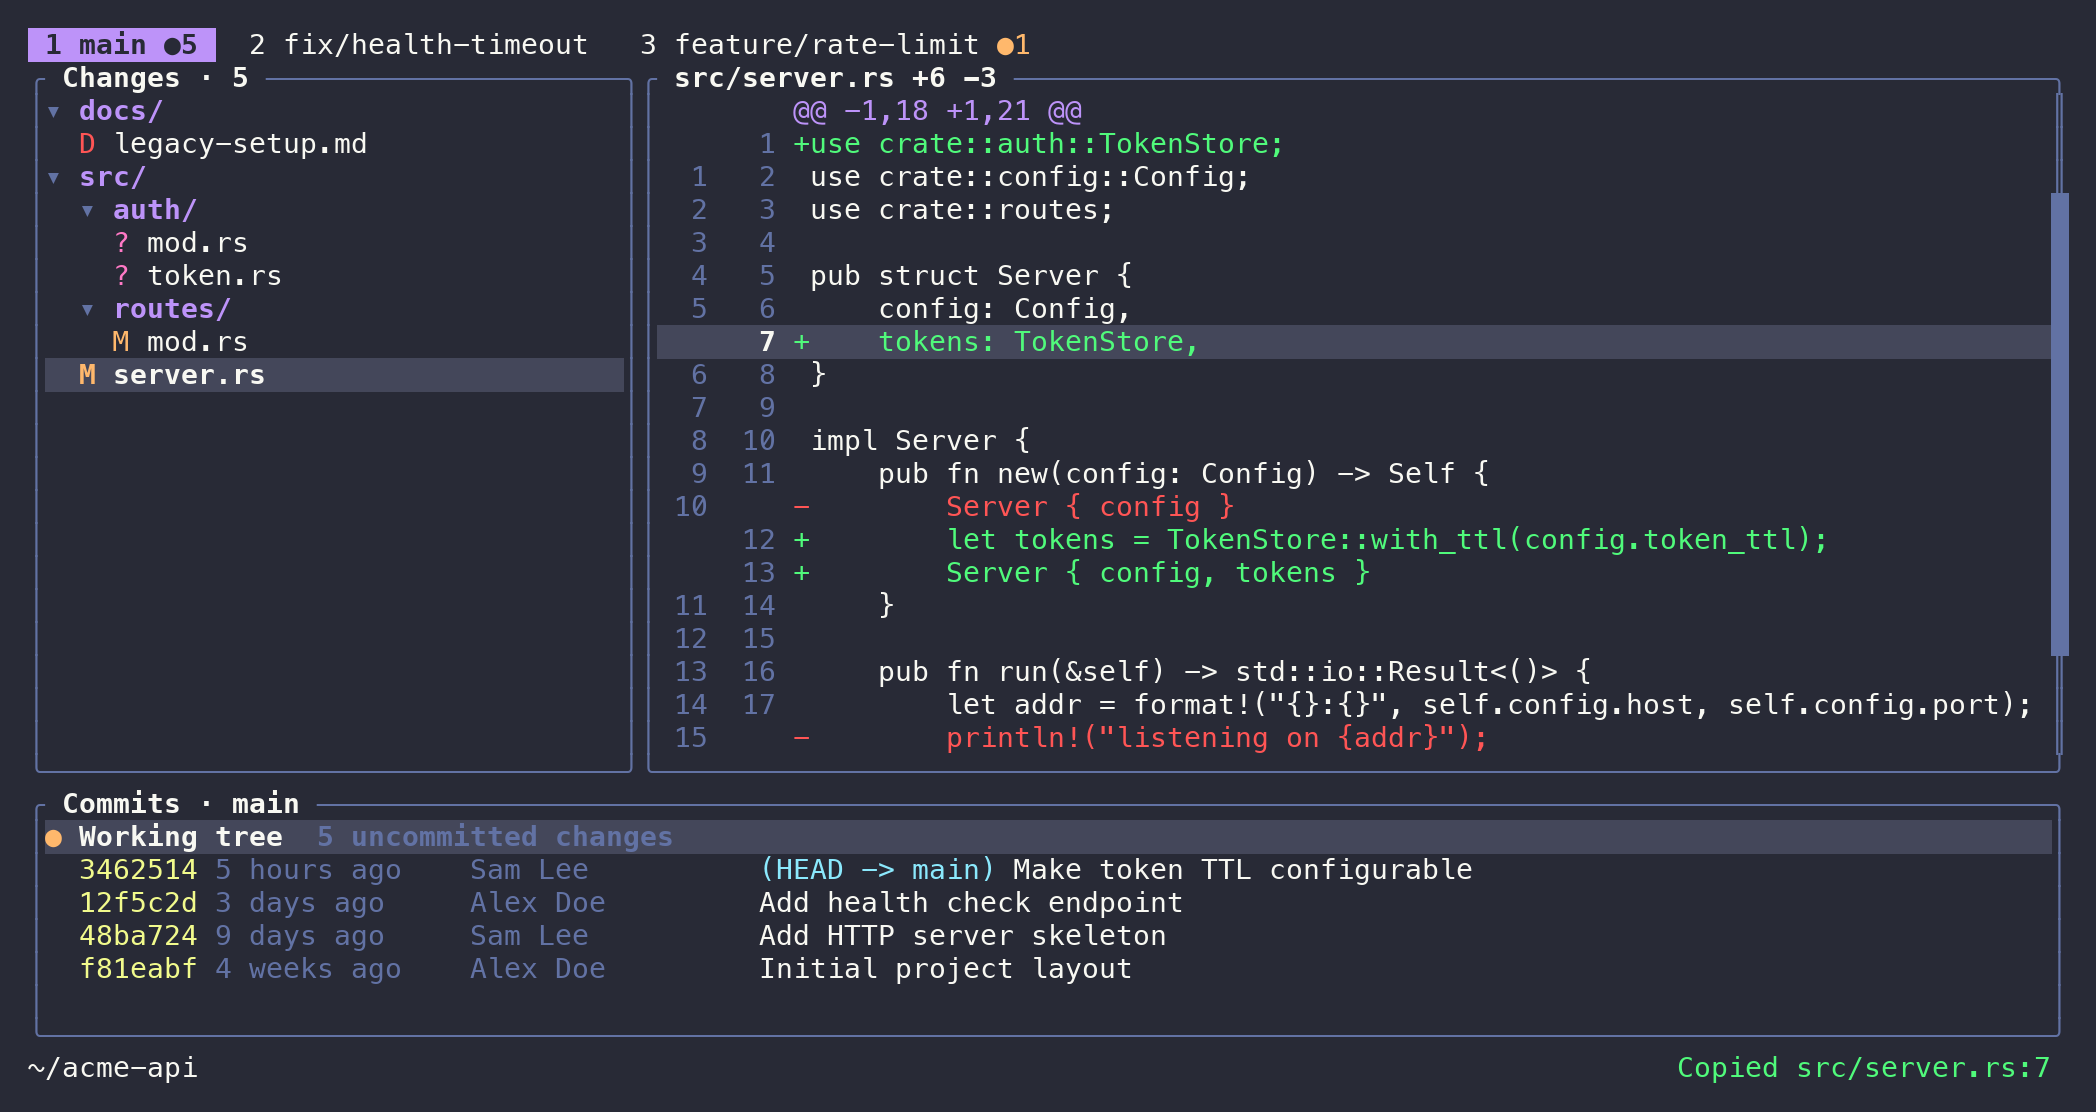
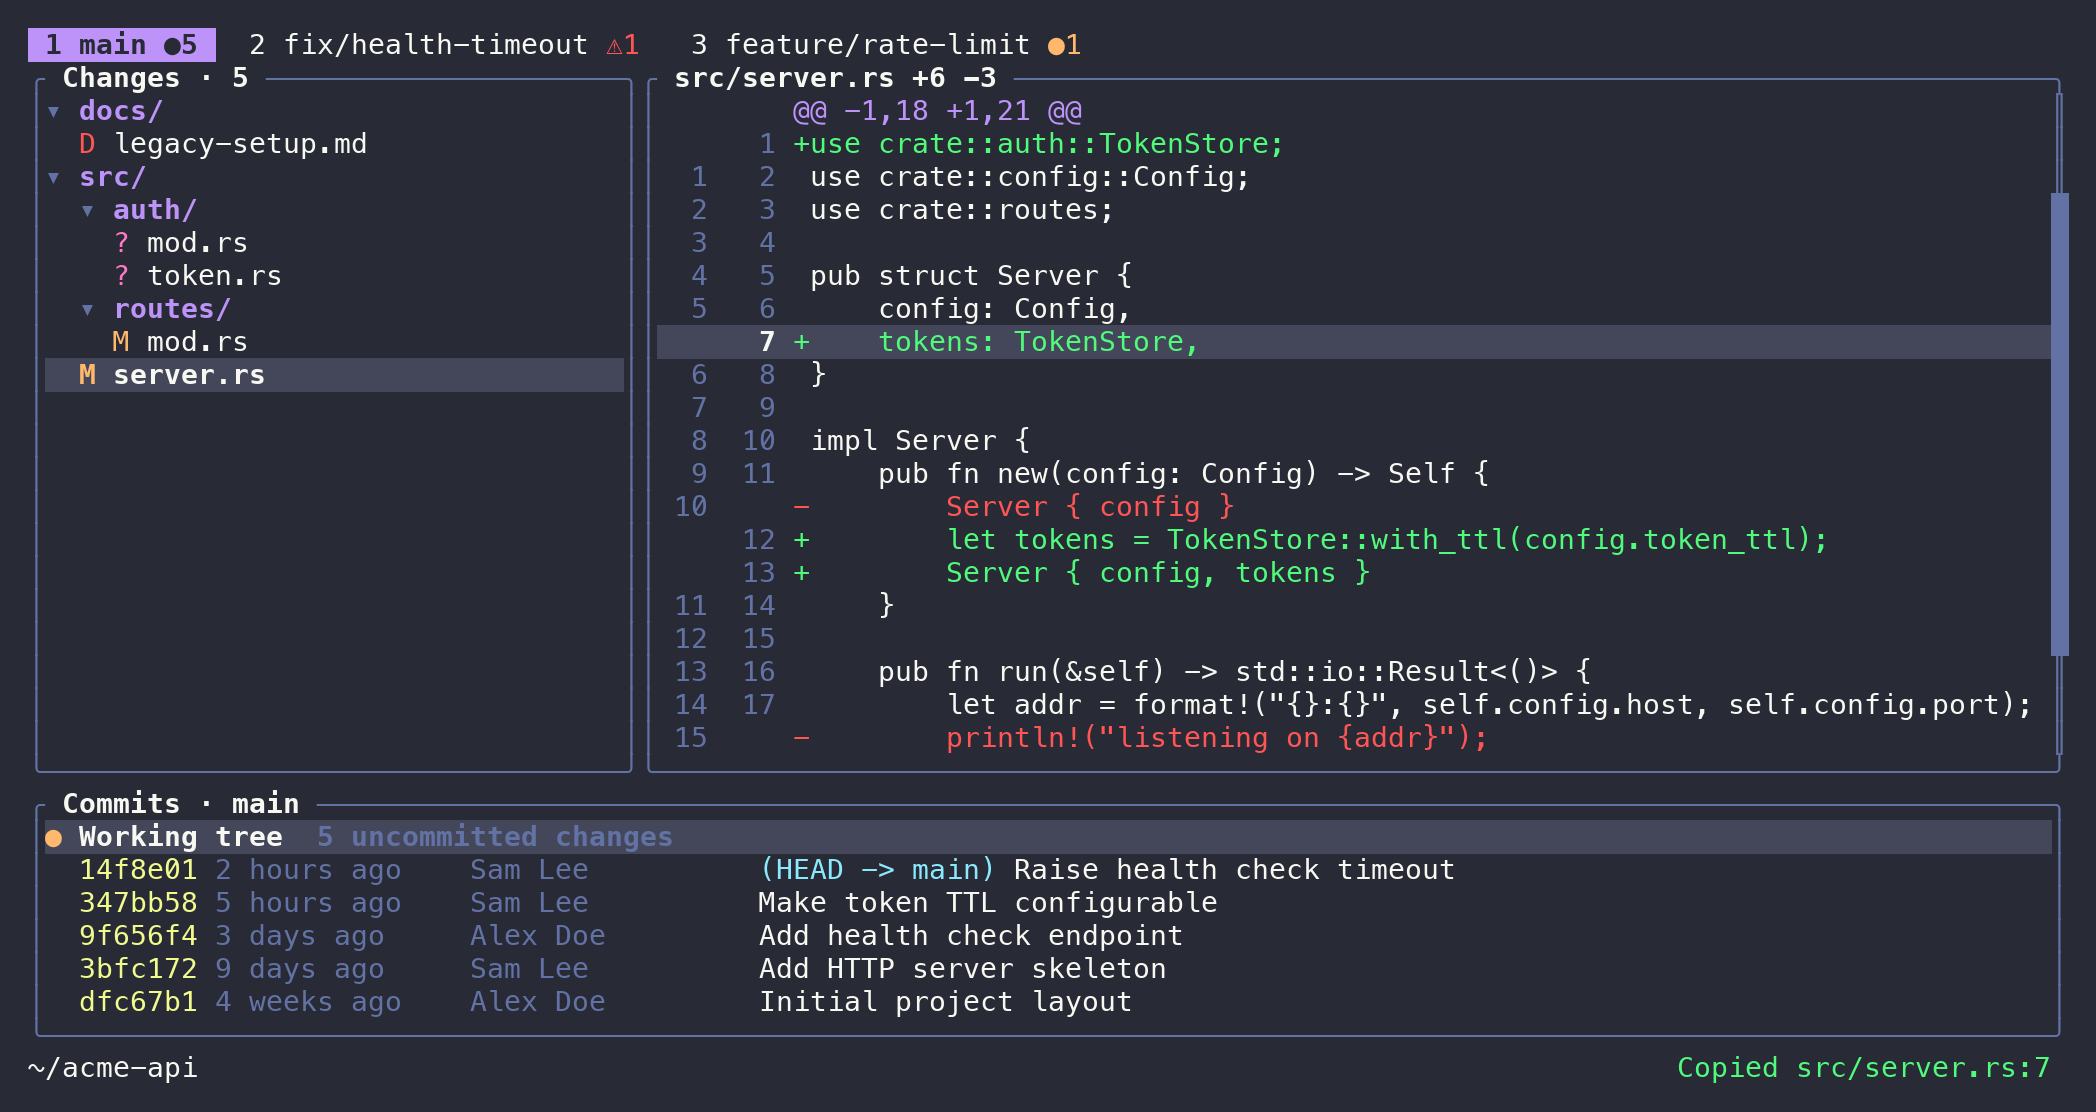
feat: warn when a worktree conflicts with the default branch
Dry-run a merge with `git merge-tree --write-tree` against the default
branch (origin/HEAD, else main/master) in the background. Conflicting
worktrees get a ⚠N tab badge, and the status line names the base branch
and file count. The path is shortened from the left so the warning stays
visible. Requires git 2.38+; silently skipped otherwise.

diff --git a/src/git.rs b/src/git.rs
@@ -272,14 +272,47 @@ pub fn default_branch(dir: &Path) -> Option<String> {
         .map(String::from)
 }
 
-/// Ref to exclude from a worktree's log so only its own commits remain. `None` (full history) when
-/// HEAD is detached, no default branch exists, or the worktree is on the default branch itself.
-fn log_base(wt: &Path) -> Option<String> {
+/// Default branch to compare a worktree against. `None` when HEAD is detached, no default branch
+/// exists, or the worktree is on the default branch itself.
+pub fn base_for(wt: &Path) -> Option<String> {
     let base = default_branch(wt)?;
     let out = run_ok(wt, &["symbolic-ref", "-q", "--short", "HEAD"]).ok()?;
     let current = String::from_utf8_lossy(&out).trim().to_string();
     let short_base = base.rsplit('/').next().unwrap_or(&base);
     (current != base && current != short_base).then_some(base)
+}
+
+/// Files that would conflict when merging the worktree's HEAD into its base branch.
+#[derive(Debug, Clone, PartialEq, Eq)]
+pub struct Conflict {
+    pub base: String,
+    pub files: Vec<String>,
+}
+
+/// Dry-run merge via `git merge-tree` (git >= 2.38; never touches the index or working tree).
+/// `None` when clean, there is no base, or git cannot tell (e.g. too old).
+pub fn conflicts_with_base(wt: &Path) -> Option<Conflict> {
+    let base = base_for(wt)?;
+    let out = run(
+        wt,
+        &["merge-tree", "--write-tree", "--name-only", &base, "HEAD"],
+        &[0, 1],
+    )
+    .ok()?;
+    let files = parse_merge_tree(&String::from_utf8_lossy(&out));
+    (!files.is_empty()).then_some(Conflict { base, files })
+}
+
+/// Parses `merge-tree --write-tree --name-only` output: tree OID, conflicted paths, blank line, messages.
+fn parse_merge_tree(out: &str) -> Vec<String> {
+    let mut files: Vec<String> = out
+        .lines()
+        .skip(1)
+        .take_while(|l| !l.is_empty())
+        .map(String::from)
+        .collect();
+    files.dedup();
+    files
 }
 
 pub fn log(wt: &Path, skip: usize, count: usize) -> Result<Vec<Commit>> {
@@ -294,7 +327,7 @@ pub fn log(wt: &Path, skip: usize, count: usize) -> Result<Vec<Commit>> {
         &skip,
         "--format=%H%x1f%h%x1f%an%x1f%ar%x1f%D%x1f%P%x1f%s%x1e",
     ];
-    let range = log_base(wt).map(|b| format!("{b}..HEAD"));
+    let range = base_for(wt).map(|b| format!("{b}..HEAD"));
     if let Some(r) = &range {
         args.push(r);
     }
@@ -483,6 +516,47 @@ mod tests {
             .status
             .success();
         assert!(ok, "git {args:?} failed");
+    }
+
+    #[test]
+    fn parses_merge_tree() {
+        assert!(parse_merge_tree("abc123\n").is_empty());
+        assert_eq!(
+            parse_merge_tree(
+                "abc123\na.txt\nb/c.txt\nb/c.txt\n\nAuto-merging a.txt\nCONFLICT (content)\n"
+            ),
+            vec!["a.txt", "b/c.txt"]
+        );
+    }
+
+    #[test]
+    fn detects_conflicts_with_default_branch() {
+        let tmp = tempfile::tempdir().unwrap();
+        let main = tmp.path().join("main");
+        std::fs::create_dir(&main).unwrap();
+        sh(&main, &["init", "-q", "-b", "master"]);
+        std::fs::write(main.join("a.txt"), "one\n").unwrap();
+        std::fs::write(main.join("b.txt"), "b\n").unwrap();
+        sh(&main, &["add", "."]);
+        sh(&main, &["commit", "-q", "-m", "first"]);
+        let wt = tmp.path().join("wt");
+        sh(
+            &main,
+            &["worktree", "add", "-q", "-b", "feat", wt.to_str().unwrap()],
+        );
+
+        // On the default branch itself: nothing to compare.
+        assert_eq!(conflicts_with_base(&main), None);
+
+        std::fs::write(wt.join("a.txt"), "feat\n").unwrap();
+        sh(&wt, &["commit", "-q", "-am", "feat change"]);
+        assert_eq!(conflicts_with_base(&wt), None);
+
+        std::fs::write(main.join("a.txt"), "master\n").unwrap();
+        sh(&main, &["commit", "-q", "-am", "master change"]);
+        let c = conflicts_with_base(&wt).unwrap();
+        assert_eq!(c.base, "master");
+        assert_eq!(c.files, vec!["a.txt"]);
     }
 
     #[test]

diff --git a/src/ui.rs b/src/ui.rs
@@ -122,6 +122,16 @@ fn clamp_offset(offset: &mut usize, len: usize, height: usize) {
     *offset = (*offset).min(len.saturating_sub(height));
 }
 
+/// Keeps the end of `s` (the interesting part of a path), prefixing `…` when it has to cut.
+fn shorten_left(s: &str, max: usize) -> String {
+    let n = s.chars().count();
+    if n <= max {
+        return s.to_string();
+    }
+    let tail: String = s.chars().skip(n - max.saturating_sub(1)).collect();
+    format!("…{tail}")
+}
+
 fn home_relative(p: &std::path::Path) -> String {
     if let Some(home) = std::env::var_os("HOME")
         && let Ok(rel) = p.strip_prefix(&home)
@@ -147,6 +157,13 @@ fn draw_tabs(f: &mut Frame, app: &mut App, area: Rect) {
             };
             let badge = if !w.info.exists() {
                 Some(("✗".to_string(), theme.error))
+            } else if let Some(c) = &w.conflict {
+                let changes = if w.changes.is_empty() {
+                    String::new()
+                } else {
+                    format!(" ●{}", w.changes.len())
+                };
+                Some((format!("⚠{}{changes}", c.files.len()), theme.error))
             } else if !w.changes.is_empty() {
                 Some((format!("●{}", w.changes.len()), theme.badge))
             } else {
@@ -445,18 +462,24 @@ fn draw_commits(f: &mut Frame, app: &mut App, area: Rect) {
 
 fn draw_status(f: &mut Frame, app: &App, area: Rect) {
     let theme = &app.theme;
-    let mut left = vec![];
+    // Everything after the path; the path is shortened first so the warning stays visible.
+    let mut tail = vec![];
     if let Some(st) = app.active() {
-        left.push(Span::styled(home_relative(&st.info.path), theme.base));
+        if let Some(c) = &st.conflict {
+            tail.push(Span::styled(
+                format!("  ⚠ conflicts with {} ({} files)", c.base, c.files.len()),
+                theme.error,
+            ));
+        }
         if let Some(c) = &st.commit {
-            left.push(Span::styled(
+            tail.push(Span::styled(
                 format!("  @ {} {}", c.short, c.subject),
                 theme.sha,
             ));
         }
     }
     if let Some(p) = &app.pending_keys {
-        left.push(Span::styled(format!("  {p}…"), theme.badge));
+        tail.push(Span::styled(format!("  {p}…"), theme.badge));
     }
     let right = match app.visible_toast() {
         Some((msg, true)) => Span::styled(format!("{msg} "), theme.error),
@@ -465,6 +488,16 @@ fn draw_status(f: &mut Frame, app: &App, area: Rect) {
     };
     let right_w = right.width() as u16;
     let [l, r] = Layout::horizontal([Constraint::Min(0), Constraint::Length(right_w)]).areas(area);
+    let mut left = vec![];
+    if let Some(st) = app.active() {
+        let tail_w: usize = tail.iter().map(|s| s.width()).sum();
+        let budget = (l.width as usize).saturating_sub(tail_w).max(12);
+        left.push(Span::styled(
+            shorten_left(&home_relative(&st.info.path), budget),
+            theme.base,
+        ));
+    }
+    left.extend(tail);
     f.render_widget(Line::from(fit_spans(left, l.width as usize)), l);
     f.render_widget(Line::from(right), r);
 }
@@ -559,6 +592,12 @@ fn draw_help(f: &mut Frame, app: &mut App, area: Rect) {
 #[cfg(test)]
 mod tests {
     use super::*;
+
+    #[test]
+    fn shortens_from_left() {
+        assert_eq!(shorten_left("abc", 5), "abc");
+        assert_eq!(shorten_left("~/a/b/wt-conflicting", 8), "…licting");
+    }
 
     #[test]
     fn fits_and_pads() {

diff --git a/src/worker.rs b/src/worker.rs
@@ -2,7 +2,7 @@
 //! Queued jobs are coalesced: repeated refreshes of the same thing collapse into one.
 
 use crate::app::AppEvent;
-use crate::git::{self, Commit, FileChange, Worktree};
+use crate::git::{self, Commit, Conflict, FileChange, Worktree};
 use anyhow::Result;
 use std::path::PathBuf;
 use std::sync::mpsc::{self, Receiver, Sender};
@@ -18,6 +18,9 @@ pub enum Job {
         wt: PathBuf,
         skip: usize,
         count: usize,
+    },
+    Conflicts {
+        wt: PathBuf,
     },
     CommitFiles {
         wt: PathBuf,
@@ -37,6 +40,7 @@ enum JobKey {
     Worktrees,
     Status(PathBuf),
     Log(PathBuf, usize),
+    Conflicts(PathBuf),
     CommitFiles,
     Diff,
 }
@@ -47,6 +51,7 @@ impl Job {
             Job::Worktrees => JobKey::Worktrees,
             Job::Status { wt } => JobKey::Status(wt.clone()),
             Job::Log { wt, skip, .. } => JobKey::Log(wt.clone(), *skip),
+            Job::Conflicts { wt } => JobKey::Conflicts(wt.clone()),
             // Only the latest file list / diff request matters.
             Job::CommitFiles { .. } => JobKey::CommitFiles,
             Job::Diff { .. } => JobKey::Diff,
@@ -65,6 +70,10 @@ pub enum GitResult {
         skip: usize,
         count: usize,
         res: Result<Vec<Commit>>,
+    },
+    Conflicts {
+        wt: PathBuf,
+        conflict: Option<Conflict>,
     },
     CommitFiles {
         wt: PathBuf,
@@ -125,6 +134,10 @@ fn execute(repo_dir: &std::path::Path, job: Job) -> GitResult {
                 res,
             }
         }
+        Job::Conflicts { wt } => {
+            let conflict = git::conflicts_with_base(&wt);
+            GitResult::Conflicts { wt, conflict }
+        }
         Job::CommitFiles { wt, id, commit } => {
             let res = git::commit_files(&wt, &commit);
             GitResult::CommitFiles { wt, id, res }
@@ -157,11 +170,14 @@ mod tests {
             Job::Status { wt: b.clone() },
             Job::Worktrees,
             Job::Status { wt: a.clone() },
+            Job::Conflicts { wt: a.clone() },
+            Job::Conflicts { wt: a.clone() },
         ];
         let out = coalesce(jobs);
-        assert_eq!(out.len(), 3);
+        assert_eq!(out.len(), 4);
         assert!(matches!(&out[0], Job::Status { wt } if *wt == b));
         assert!(matches!(&out[1], Job::Worktrees));
         assert!(matches!(&out[2], Job::Status { wt } if *wt == a));
+        assert!(matches!(&out[3], Job::Conflicts { wt } if *wt == a));
     }
 }

diff --git a/src/app.rs b/src/app.rs
@@ -2,7 +2,7 @@
 
 use crate::clipboard::Clipboard;
 use crate::diff::{self, Diff};
-use crate::git::{self, Commit, FileChange, Repo, Worktree};
+use crate::git::{self, Commit, Conflict, FileChange, Repo, Worktree};
 use crate::keymap::{self, Action, Lookup};
 use crate::theme::Theme;
 use crate::tree::{self, Row, RowKind};
@@ -47,6 +47,8 @@ pub struct WtState {
     pub changes: Vec<FileChange>,
     pub loaded: bool,
     pub error: Option<String>,
+    /// Merge conflicts with the default branch, if any.
+    pub conflict: Option<Conflict>,
 
     pub commits: Vec<Commit>,
     pub log_exhausted: bool,
@@ -86,6 +88,7 @@ impl WtState {
             changes: Vec::new(),
             loaded: false,
             error: None,
+            conflict: None,
             commits: Vec::new(),
             log_exhausted: false,
             log_loading: false,
@@ -253,6 +256,7 @@ impl App {
         let wt = st.info.path.clone();
         let count = st.commits.len().max(LOG_PAGE);
         self.send(Job::Status { wt: wt.clone() });
+        self.send(Job::Conflicts { wt: wt.clone() });
         if i == self.active {
             self.send(Job::Log { wt, skip: 0, count });
         }
@@ -352,6 +356,11 @@ impl App {
                         }
                     }
                     Err(e) => st.error = Some(format!("{e:#}")),
+                }
+            }
+            GitResult::Conflicts { wt, conflict } => {
+                if let Some(i) = self.index_of(&wt) {
+                    self.wts[i].conflict = conflict;
                 }
             }
             GitResult::Log {

diff --git a/scripts/screenshot.py b/scripts/screenshot.py
@@ -128,6 +128,9 @@ def build_demo(base: Path) -> Path:
     write(fix / "src/routes/health.rs", "pub fn health() -> &'static str {\n    \"ok\"\n}\n\npub const TIMEOUT_MS: u64 = 500;\n")
     git(fix, "add", "-A", env=env)
     git(fix, "commit", "-q", "-m", "Lower health check timeout", env=env)
+    # main touches the same lines, so fix/health-timeout conflicts with it.
+    write(repo / "src/routes/health.rs", "pub fn health() -> &'static str {\n    \"ok\"\n}\n\npub const TIMEOUT_MS: u64 = 2000;\n")
+    commit("Raise health check timeout", 2, "Sam Lee")
     rl = base / "acme-rate-limit"
     write(rl / "src/limiter.rs", "pub struct Limiter;\n")
     git(rl, "add", "-A", env=env)

diff --git a/README.md b/README.md
@@ -7,7 +7,8 @@ commit history, side by side and updating in near-realtime.
 
 ## Features
 
-- **All worktrees as tabs.** The tab badge shows each worktree's number of uncommitted changes.
+- **All worktrees as tabs.** The tab badge shows each worktree's number of uncommitted changes, or `⚠N` when the branch would conflict with the default branch
+  (`origin/HEAD`, else `main`/`master`) in N files. The status line names the base branch. Requires git 2.38+.
 - **Changed files as a tree:** modified, added, deleted, renamed, untracked and conflicted. Directories are collapsible.
 - **Diff view** with old/new line numbers, hunk navigation that continues into adjacent files, and line selection.
 - **Commit list.** Select a commit to browse its files and diffs. Select *Working tree* to go back.
